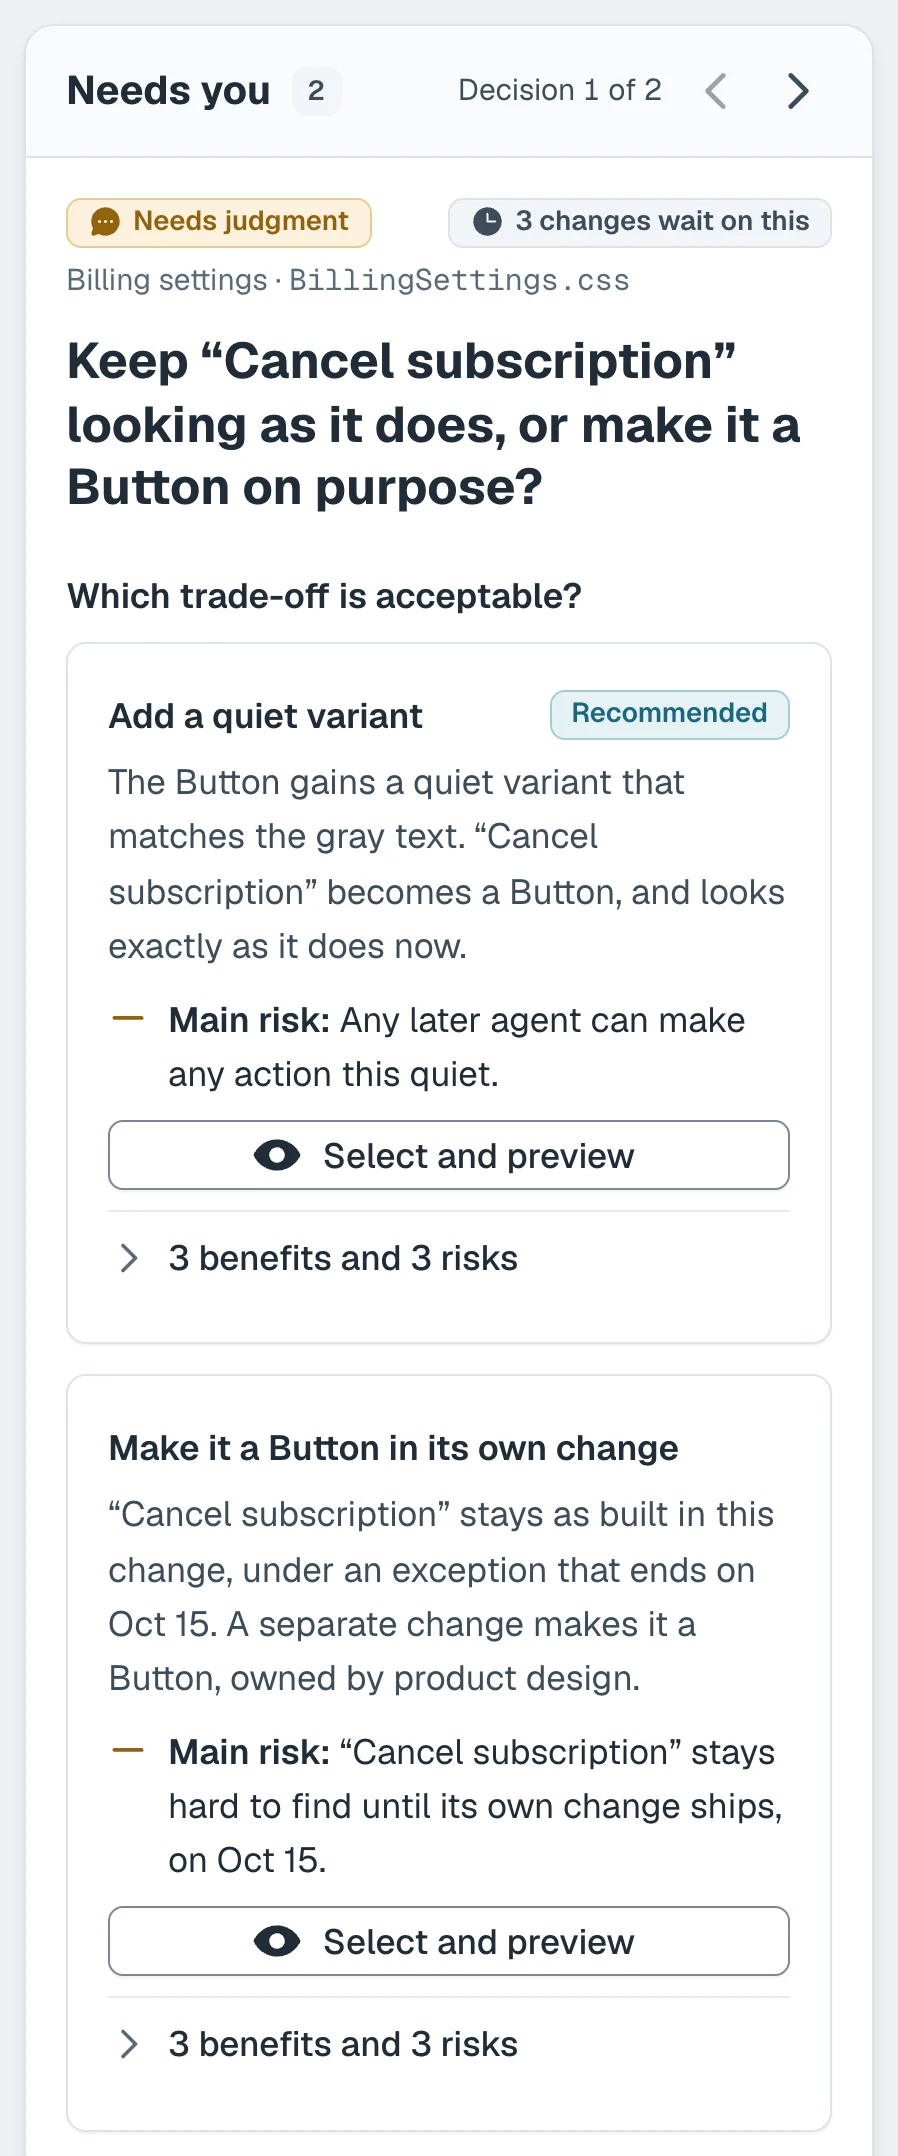
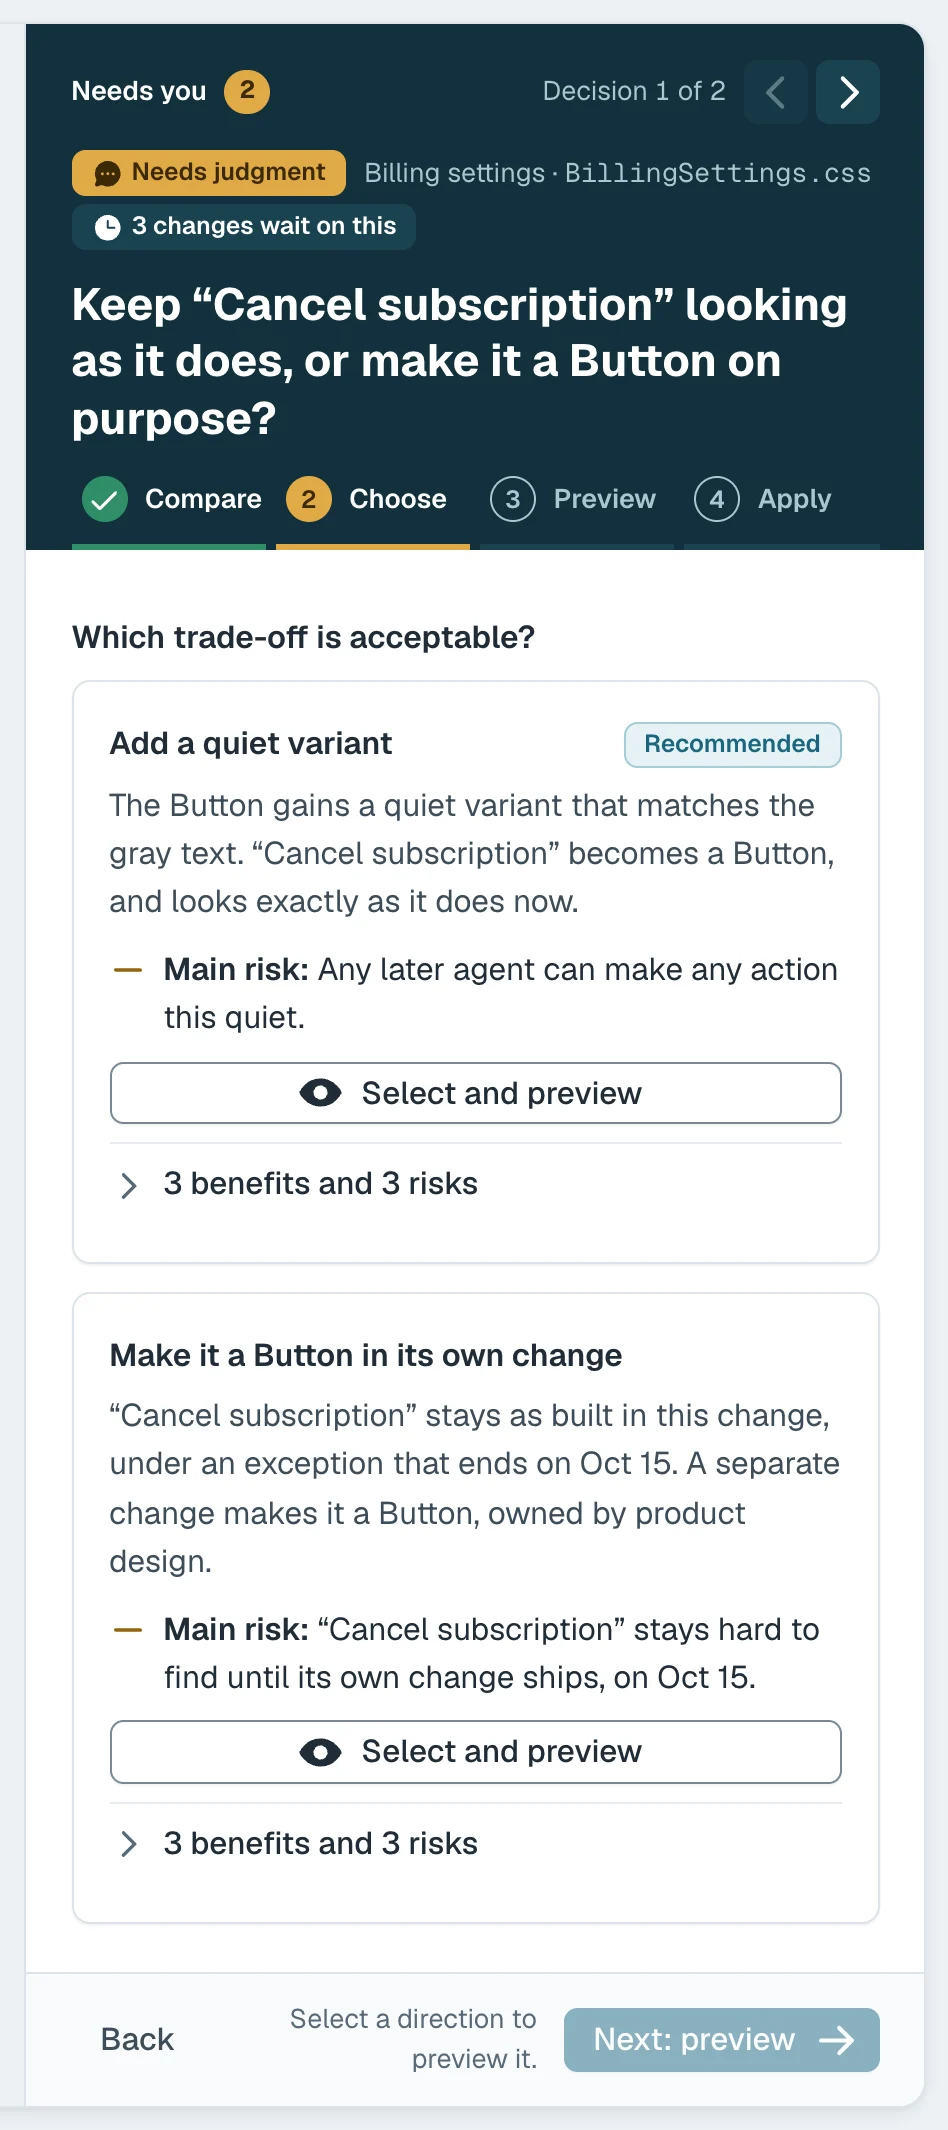
Agent Review's directions and shared-table pictures show the desk the prototype became in agent-review#42: the decision panel on its deep-teal band, on the Choose page, and the shared-table run as three columns. lab-shots.mjs reaches the Choose page on a desk (toChoose) and cuts the panel and the de

diff --git a/lab/agent-review.html b/lab/agent-review.html
@@ -412,8 +412,8 @@
             <figure class="build-shot ar-split-media ar-shot--narrow">
               <picture>
                 <source media="(max-width: 40rem)" srcset="../img/lab/agent-review-directions-phone.webp?v=5" width="375" height="902" />
-                <img src="../img/lab/agent-review-directions.webp?v=5" width="449" height="1078" loading="lazy" decoding="async"
-                     alt="The decision in the prototype&rsquo;s inspector: Needs judgment, three changes wait on this, and the question, Keep &ldquo;Cancel subscription&rdquo; looking as it does, or make it a Button on purpose? Under &ldquo;Which trade-off is acceptable?&rdquo;, two cards. Add a quiet variant, recommended: the Button gains a quiet variant that matches the gray text; main risk, any later agent can make any action this quiet. Make it a Button in its own change: cancel stays as built under an exception that ends on Oct 15, and a separate change owned by product design makes it a Button; main risk, it stays hard to find until then. Each folds its three benefits and three risks, and each has a Select and preview button." />
+                <img src="../img/lab/agent-review-directions.webp?v=6" width="474" height="1065" loading="lazy" decoding="async"
+                     alt="The decision panel in the prototype, on a deep-teal band: decision 1 of 2, Needs judgment, three changes wait on this, the question, Keep &ldquo;Cancel subscription&rdquo; looking as it does, or make it a Button on purpose?, and four steps, Compare done and Choose current, then Preview and Apply. Under &ldquo;Which trade-off is acceptable?&rdquo;, two cards. Add a quiet variant, recommended: the Button gains a quiet variant that matches the gray text; main risk, any later agent can make any action this quiet. Make it a Button in its own change: cancel stays as built under an exception that ends on Oct 15, and a separate change owned by product design makes it a Button; main risk, it stays hard to find until then. Each folds its three benefits and three risks, and each has a Select and preview button. At the panel&rsquo;s foot, Back, and Next: preview, waiting for a direction." />
               </picture>
               <figcaption><strong>The decision,</strong> with each direction&rsquo;s main risk in view.</figcaption>
             </figure>
@@ -606,8 +606,8 @@
         <figure class="build-shot ar-split-media">
           <picture>
                 <source media="(max-width: 40rem)" srcset="../img/lab/agent-review-scope-phone.webp?v=8" width="375" height="720" />
-                <img src="../img/lab/agent-review-scope.webp?v=10" width="1270" height="1308" loading="lazy" decoding="async"
-                     alt="The prototype&rsquo;s second run as a workspace: a Start here line, then the customer list in the preview, marked, and under it the forty screens the shared Table is on, by area, twelve filled for a visual baseline and twenty-eight hollow. Beside it the decision, marked Needs approval: &ldquo;The fix is in a table 40 screens share. Change it for all of them?&rdquo;, that this is a permission decision, that the shared Table is Priya Raman&rsquo;s to change, and three answers: this screen only, recommended; all 40 screens, approved once; or more evidence first." />
+                <img src="../img/lab/agent-review-scope.webp?v=11" width="1410" height="910" loading="lazy" decoding="async"
+                     alt="The prototype&rsquo;s second run as a desk in three columns. On the left, what needs you, one decision, and the two changes done. In the middle, the customer list, marked, and under it the forty screens the shared Table is on, by area, twelve filled for a visual baseline and twenty-eight hollow. On the right, the decision on a deep-teal band, marked Needs approval: &ldquo;The fix is in a table 40 screens share. Change it for all of them?&rdquo;, with its steps, Look done and Choose current, and under it three answers: this screen only, recommended; all 40 screens, approved once; or more evidence first." />
               </picture>
           <figcaption><strong>The second scenario, also simulated.</strong> Three answers that end differently.</figcaption>
         </figure>
